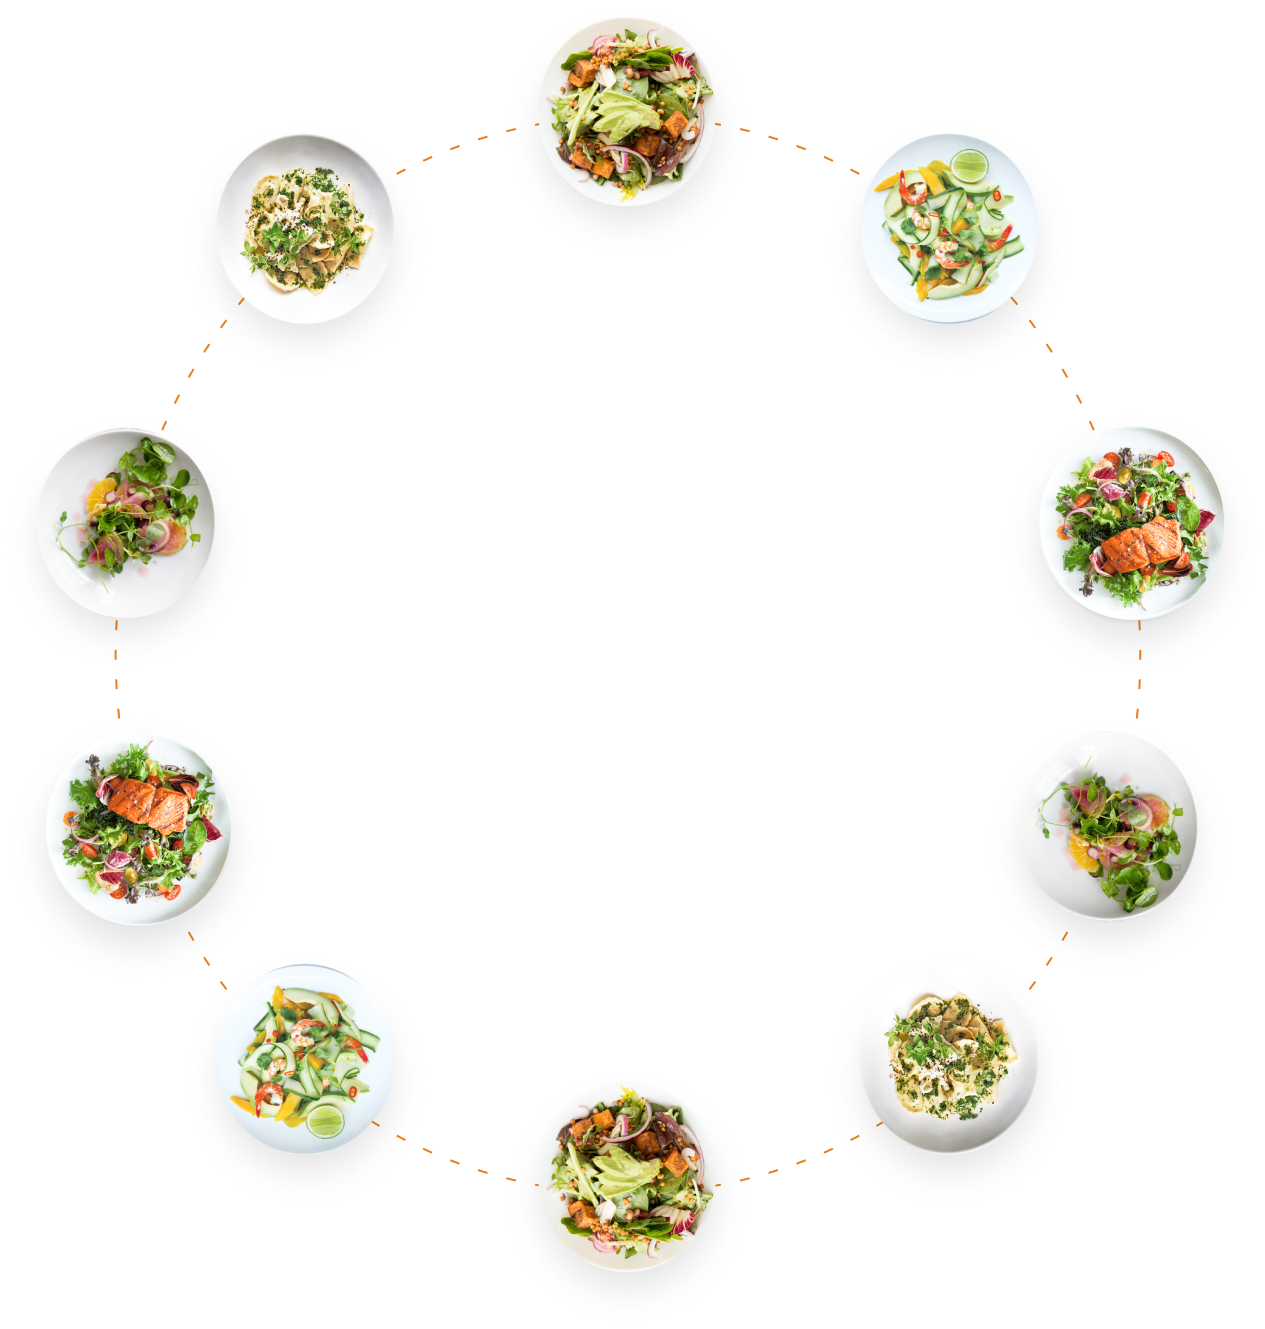
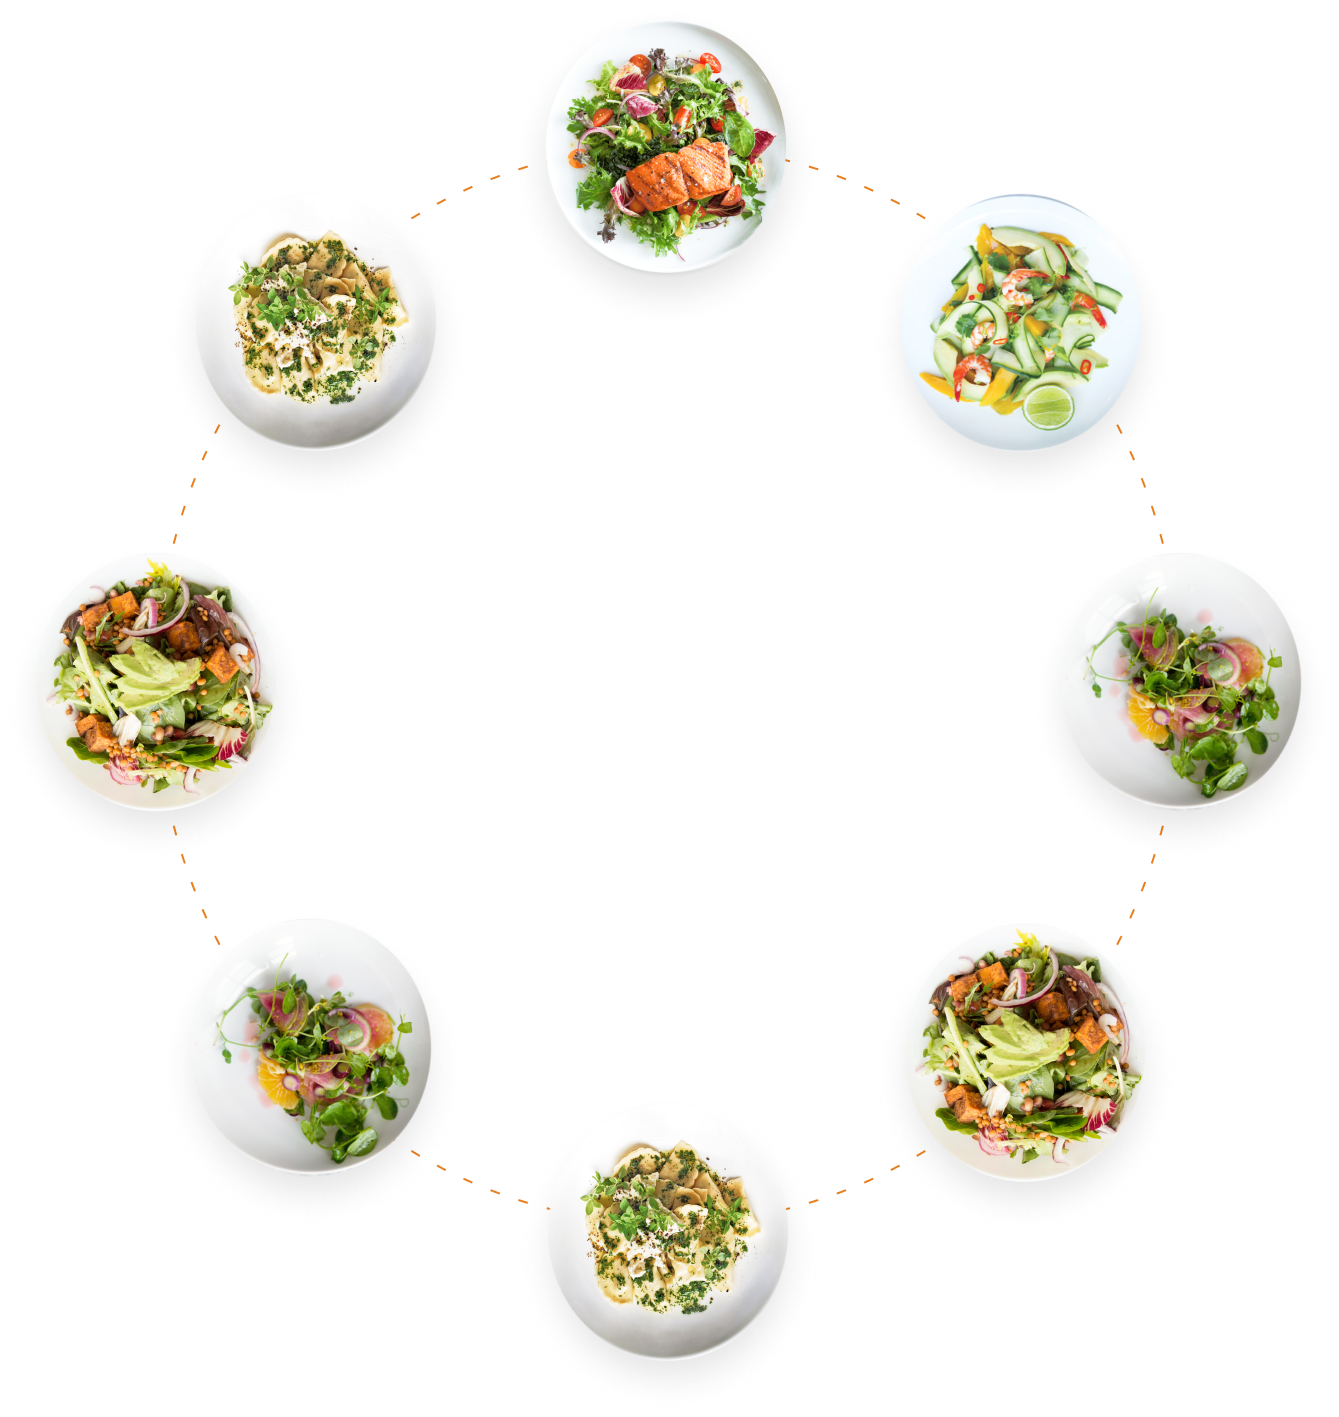
initial design

diff --git a/index.html b/index.html
@@ -1,43 +1,82 @@
 <!DOCTYPE html>
 <html lang="en">
-<head>
-    <meta charset="UTF-8">
-    <meta name="viewport" content="width=device-width, initial-scale=1">
+  <head>
+    <meta charset="UTF-8" />
+    <meta name="viewport" content="width=device-width, initial-scale=1" />
     <title>Bootstrap 5 Boilerplate</title>
     <!-- Bootstrap 5 CSS -->
-    <link href="https://cdn.jsdelivr.net/npm/bootstrap@5.3.2/dist/css/bootstrap.min.css" rel="stylesheet">
-</head>
-<body>
-    <nav class="navbar navbar-expand-lg navbar-light bg-light">
-        <div class="container">
-            <a class="navbar-brand" href="#">Brand</a>
-            <button class="navbar-toggler" type="button" data-bs-toggle="collapse" data-bs-target="#navbarNav">
-                <span class="navbar-toggler-icon"></span>
-            </button>
-            <div class="collapse navbar-collapse" id="navbarNav">
-                <ul class="navbar-nav ms-auto">
-                    <li class="nav-item"><a class="nav-link" href="#">Home</a></li>
-                    <li class="nav-item"><a class="nav-link" href="#">About</a></li>
-                    <li class="nav-item"><a class="nav-link" href="#">Services</a></li>
-                    <li class="nav-item"><a class="nav-link" href="#">Contact</a></li>
-                </ul>
-            </div>
+    <link
+      href="https://cdn.jsdelivr.net/npm/bootstrap@5.3.2/dist/css/bootstrap.min.css"
+      rel="stylesheet"
+    />
+    <link rel="preconnect" href="https://fonts.googleapis.com" />
+    <link rel="preconnect" href="https://fonts.gstatic.com" crossorigin />
+    <link
+      href="https://fonts.googleapis.com/css2?family=Poppins:wght@400;500;600;700&display=swap"
+      rel="stylesheet"
+    />
+    <link rel="stylesheet" href="./assets/css/theme.css" />
+    <link rel="stylesheet" href="./assets/css/style.css" />
+  </head>
+  <body>
+    <nav class="navbar navbar-expand-lg p-4">
+      <div class="container">
+        <a class="navbar-brand" href="#">
+          <img src="./assets/img/logo.png" alt="" />
+        </a>
+        <button
+          class="navbar-toggler"
+          type="button"
+          data-bs-toggle="collapse"
+          data-bs-target="#navbarNav"
+        >
+          <span class="navbar-toggler-icon"></span>
+        </button>
+        <div class="collapse navbar-collapse" id="navbarNav">
+          <ul class="navbar-nav justify-content-md-center w-100">
+            <li class="nav-item"><a class="nav-link" href="#">Home</a></li>
+            <li class="nav-item"><a class="nav-link" href="#">Menu</a></li>
+            <li class="nav-item"><a class="nav-link" href="#">About</a></li>
+            <li class="nav-item"><a class="nav-link" href="#">Contact</a></li>
+          </ul>
         </div>
+        <div class="navbar-action">
+          <div class="cart">
+            <a href="">
+              <img src="./assets/img/cart.png" alt="" />
+            </a>
+          </div>
+        </div>
+      </div>
     </nav>
-    
-    <div class="container mt-5">
-        <div class="row">
-            <div class="col-md-12">
-                
+
+    <div class="container mt-5 background-cover">
+      <div class="row">
+        <div class="col-md-12">
+          <div class="row">
+            <div class="col-12 col-md-5">
+
             </div>
+            <div class="col-12 col-md-7 vh-80">
+                <div class="spinner-image-container">
+                    <div class="spinner-background-overlay">
+                        <div class="food-spinner">
+                            <img src="./assets/img/groupofdish.png" alt="">
+                        </div>
+                    </div>
+                    <div class="food-dish-img">
+                        <img src="./assets/img/food4.png" alt="">
+                    </div>
+                </div>
+            </div>
+          </div>
         </div>
+      </div>
     </div>
-    
-    <footer class="">
-       
-    </footer>
-    
+
+    <footer class=""></footer>
+
     <!-- Bootstrap 5 JavaScript Bundle with Popper -->
     <script src="https://cdn.jsdelivr.net/npm/bootstrap@5.3.2/dist/js/bootstrap.bundle.min.js"></script>
-</body>
+  </body>
 </html>

diff --git a/assets/css/style.css b/assets/css/style.css
@@ -1,0 +1,57 @@
+@layer background {
+    .background-cover {
+        position: relative;
+    }
+
+    .spinner-image-container {
+        position: relative;
+    }
+
+    .spinner-background-overlay {
+        z-index: -1;
+        background: red;
+        width: 1300px;
+        height: 1224px;
+        position: absolute;
+        top: -50rem;
+        right: -50%;
+        border-radius: 100%;
+        overflow: hidden;
+    }
+    .spinner-image-container {
+        height: 500px;
+    }
+    .food-dish-img {
+        z-index: 111;
+        position: relative;
+        display: flex;
+        justify-content: center;
+        align-items: end;
+        height: -webkit-fill-available;
+        top: 25%;
+        left: 14%;
+    }
+    .food-spinner {
+        display: flex;
+        justify-content: center;
+        align-items: center;
+        height: -webkit-fill-available;
+        position: relative;
+        top: 45%;
+    }
+    .food-spinner img {
+        width: 750px;
+        height: 750px;
+        display: block;
+        transform-origin: center;
+    }
+    .food-dish-img img {
+        width: 400px;
+    }
+}
+
+@media screen and (min-width: 1200px) and (max-width: 1400px) {
+    .food-dish-img {
+        left: 0%;
+    }
+}

diff --git a/assets/css/theme.css b/assets/css/theme.css
@@ -1,0 +1,57 @@
+:root {
+    --primary-color: #54BF29;
+}
+
+body,
+html {
+    font-family: "Poppins", serif;
+    overflow: hidden;
+}
+
+.poppins-regular {
+    font-family: "Poppins", serif;
+    font-weight: 400;
+    font-style: normal;
+}
+
+.poppins-medium {
+    font-family: "Poppins", serif;
+    font-weight: 500;
+    font-style: normal;
+}
+
+.poppins-semibold {
+    font-family: "Poppins", serif;
+    font-weight: 600;
+    font-style: normal;
+}
+
+.poppins-bold {
+    font-family: "Poppins", serif;
+    font-weight: 700;
+    font-style: normal;
+}
+
+.vh-80{
+    height: 80vw;
+}
+
+@layer button {
+    .btn.btn-primary {
+        background: var(--primary-color) !important;
+        border: none !important;
+        text-transform: uppercase !important;
+        padding: 10px 32px !important;
+        border-radius: 100px !important;
+        font-weight: bold !important;
+        letter-spacing: .05rem !important;
+    }
+
+    .btn.btn-primary:hover {
+        background: transparent !important;
+        outline: 2px solid var(--primary-color) !important;
+        color: var(--primary-color) !important;
+        padding: 10px 32px !important;
+        box-shadow: -2px 5px 19px 0px #54bf2954 !important;
+    }
+}
